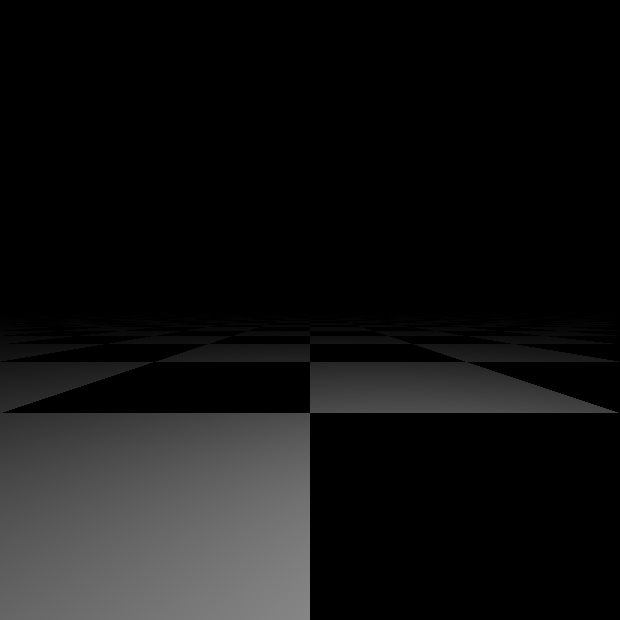
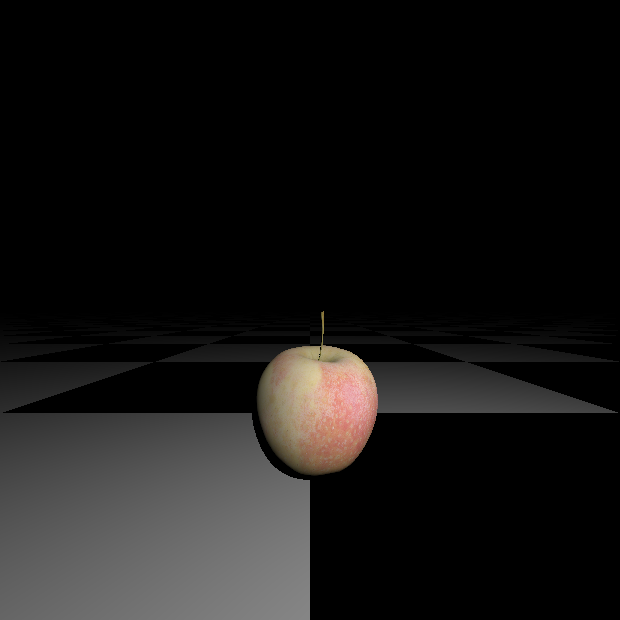
bounding box intersection corrected

Changed region(s): [[0.3984, 0.5516, 0.6129, 0.7968]]

diff --git a/myraytracer/src/shape/BoundingVolume.java b/myraytracer/src/shape/BoundingVolume.java
@@ -2,6 +2,7 @@ package shape;
 
 import math.Point3d;
 import math.Ray;
+import math.Vector2d;
 import math.Vector3d;
 import util.ShadeRec;
 
@@ -17,7 +18,6 @@ public class BoundingVolume extends Compound {
 		Point3d p0 = getMinCoordinates();
 		Point3d p1 = getMaxCoordinates();
 		boundingBox = new BBox(p0, p1);
-		System.out.println(boundingBox);
 	}
 	
 	public Point3d getMinCoordinates(){
@@ -67,20 +67,24 @@ public class BoundingVolume extends Compound {
 		if(boundingBox.intersect(ray, shadeRec)){
 			Vector3d normal = new Vector3d();
 			Point3d localHitPoint = new Point3d();
+			Vector2d textureCoords = new Vector2d();
 			double tmin = Double.POSITIVE_INFINITY;
 			for (GeometricObject object : objects) {
 				if (object.intersect(ray, shadeRec) && shadeRec.t < tmin) {
 					shadeRec.isHit = true;
 					tmin = shadeRec.t;
 					material = object.material;
-					normal = shadeRec.normal;
-					localHitPoint = shadeRec.localHitPoint;
+					normal.set(shadeRec.normal.x, shadeRec.normal.y, shadeRec.normal.z);
+					localHitPoint.set(shadeRec.localHitPoint.x, shadeRec.localHitPoint.y, shadeRec.localHitPoint.z);
+					textureCoords.setX(shadeRec.textureCoords.x);
+					textureCoords.setY(shadeRec.textureCoords.y);
 				}
 			}
 			if (shadeRec.isHit) {
 				shadeRec.t = tmin;
 				shadeRec.normal = normal;
 				shadeRec.localHitPoint = localHitPoint;
+				shadeRec.textureCoords = textureCoords;
 			}
 			
 //			return shadeRec.isHit;

diff --git a/myraytracer/src/tracer/World.java b/myraytracer/src/tracer/World.java
@@ -78,7 +78,7 @@ public class World {
 
 		Transformation worldSphereTransformation = Transformation.translate(-1, 0, -6);
 		Transformation houseTransformation = Transformation.translate(0, -1, -2).append(Transformation.rotateY(-225));
-		Transformation appleTransformation = Transformation.translate(0, -1, -6).append(Transformation.rotateX(90));
+		Transformation appleTransformation = Transformation.translate(0, -1, -2).append(Transformation.rotateX(90));
 
 		// create a world sphere
 //		try {

diff --git a/myraytracer/src/shape/BBox.java b/myraytracer/src/shape/BBox.java
@@ -44,7 +44,7 @@ public class BBox extends GeometricObject {
 		}
 		
 		double c = 1.0 / ray.direction.z;
-		if(c>=0){
+		if(c<=0){
 			tzMin = (minPoint.z - ray.origin.z) * c;
 			tzMax = (maxPoint.z - ray.origin.z) * c;
 		}
@@ -69,6 +69,7 @@ public class BBox extends GeometricObject {
 			t1 = tyMax;
 		if(tzMax < t1)
 			t1 = tzMax;
+		
 		if(t0 < t1 && t1 > kEpsilon){
 			shadeRec.totalIntersections++;
 			return true;
